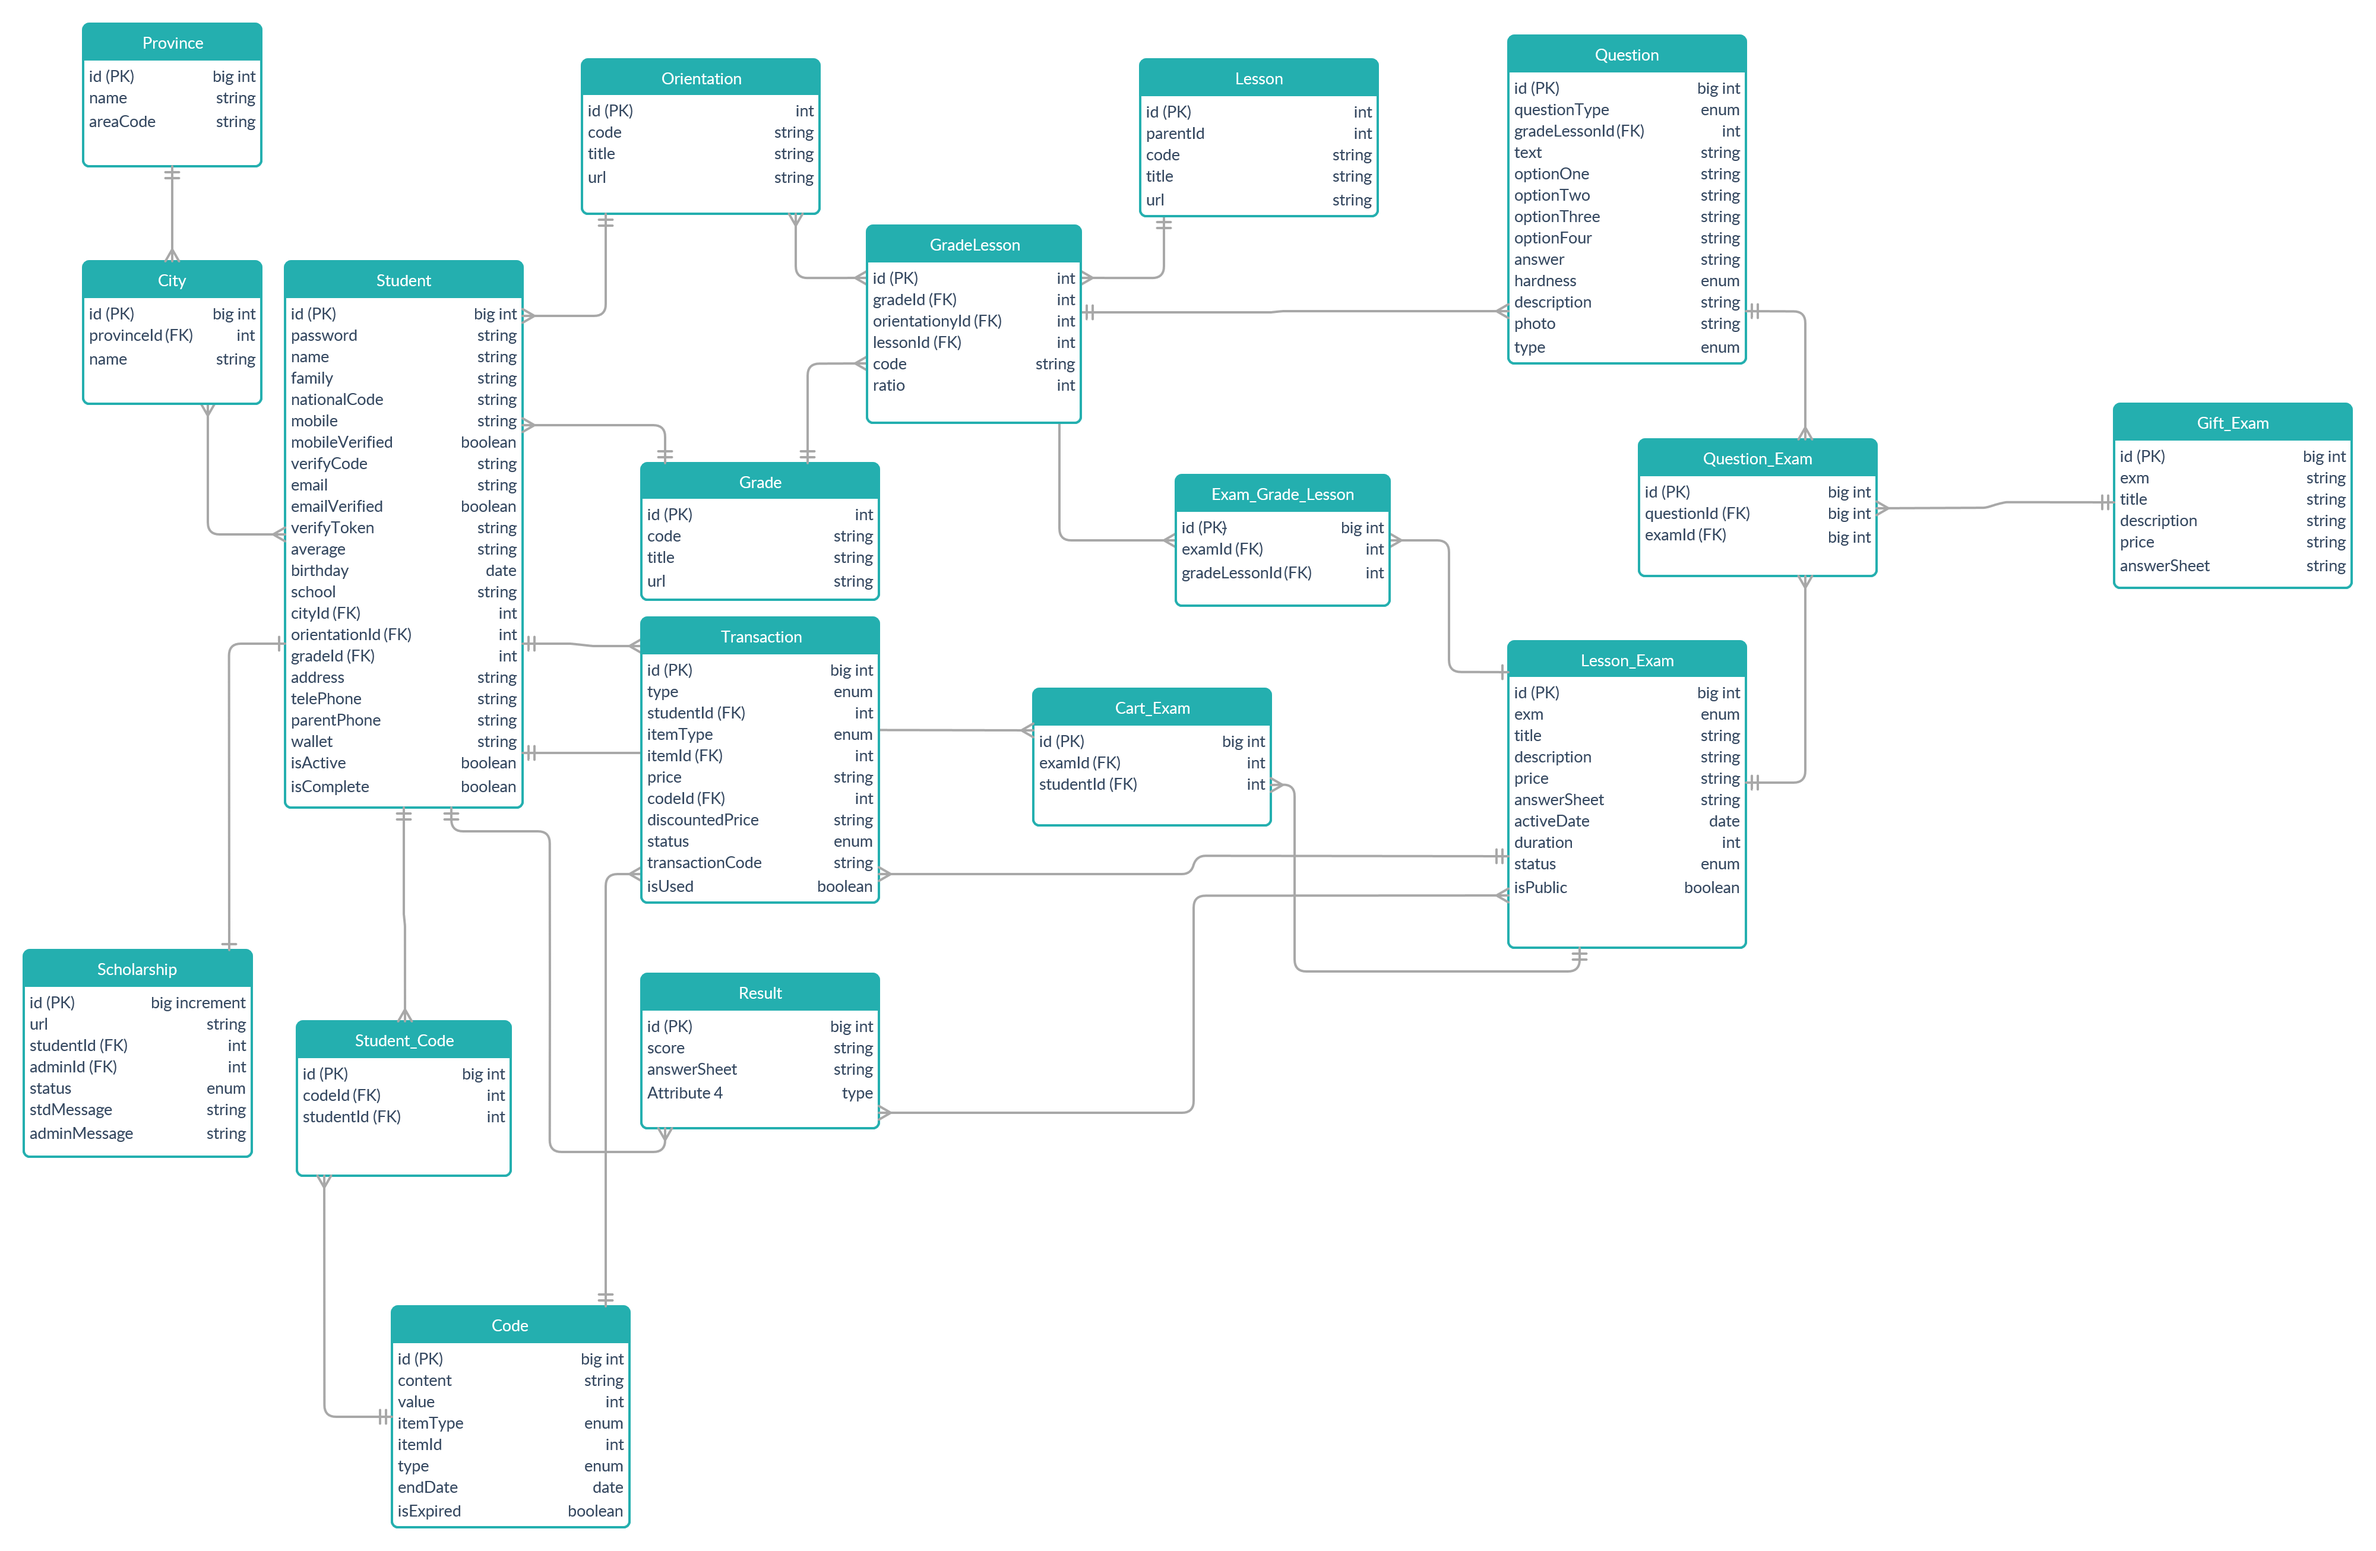
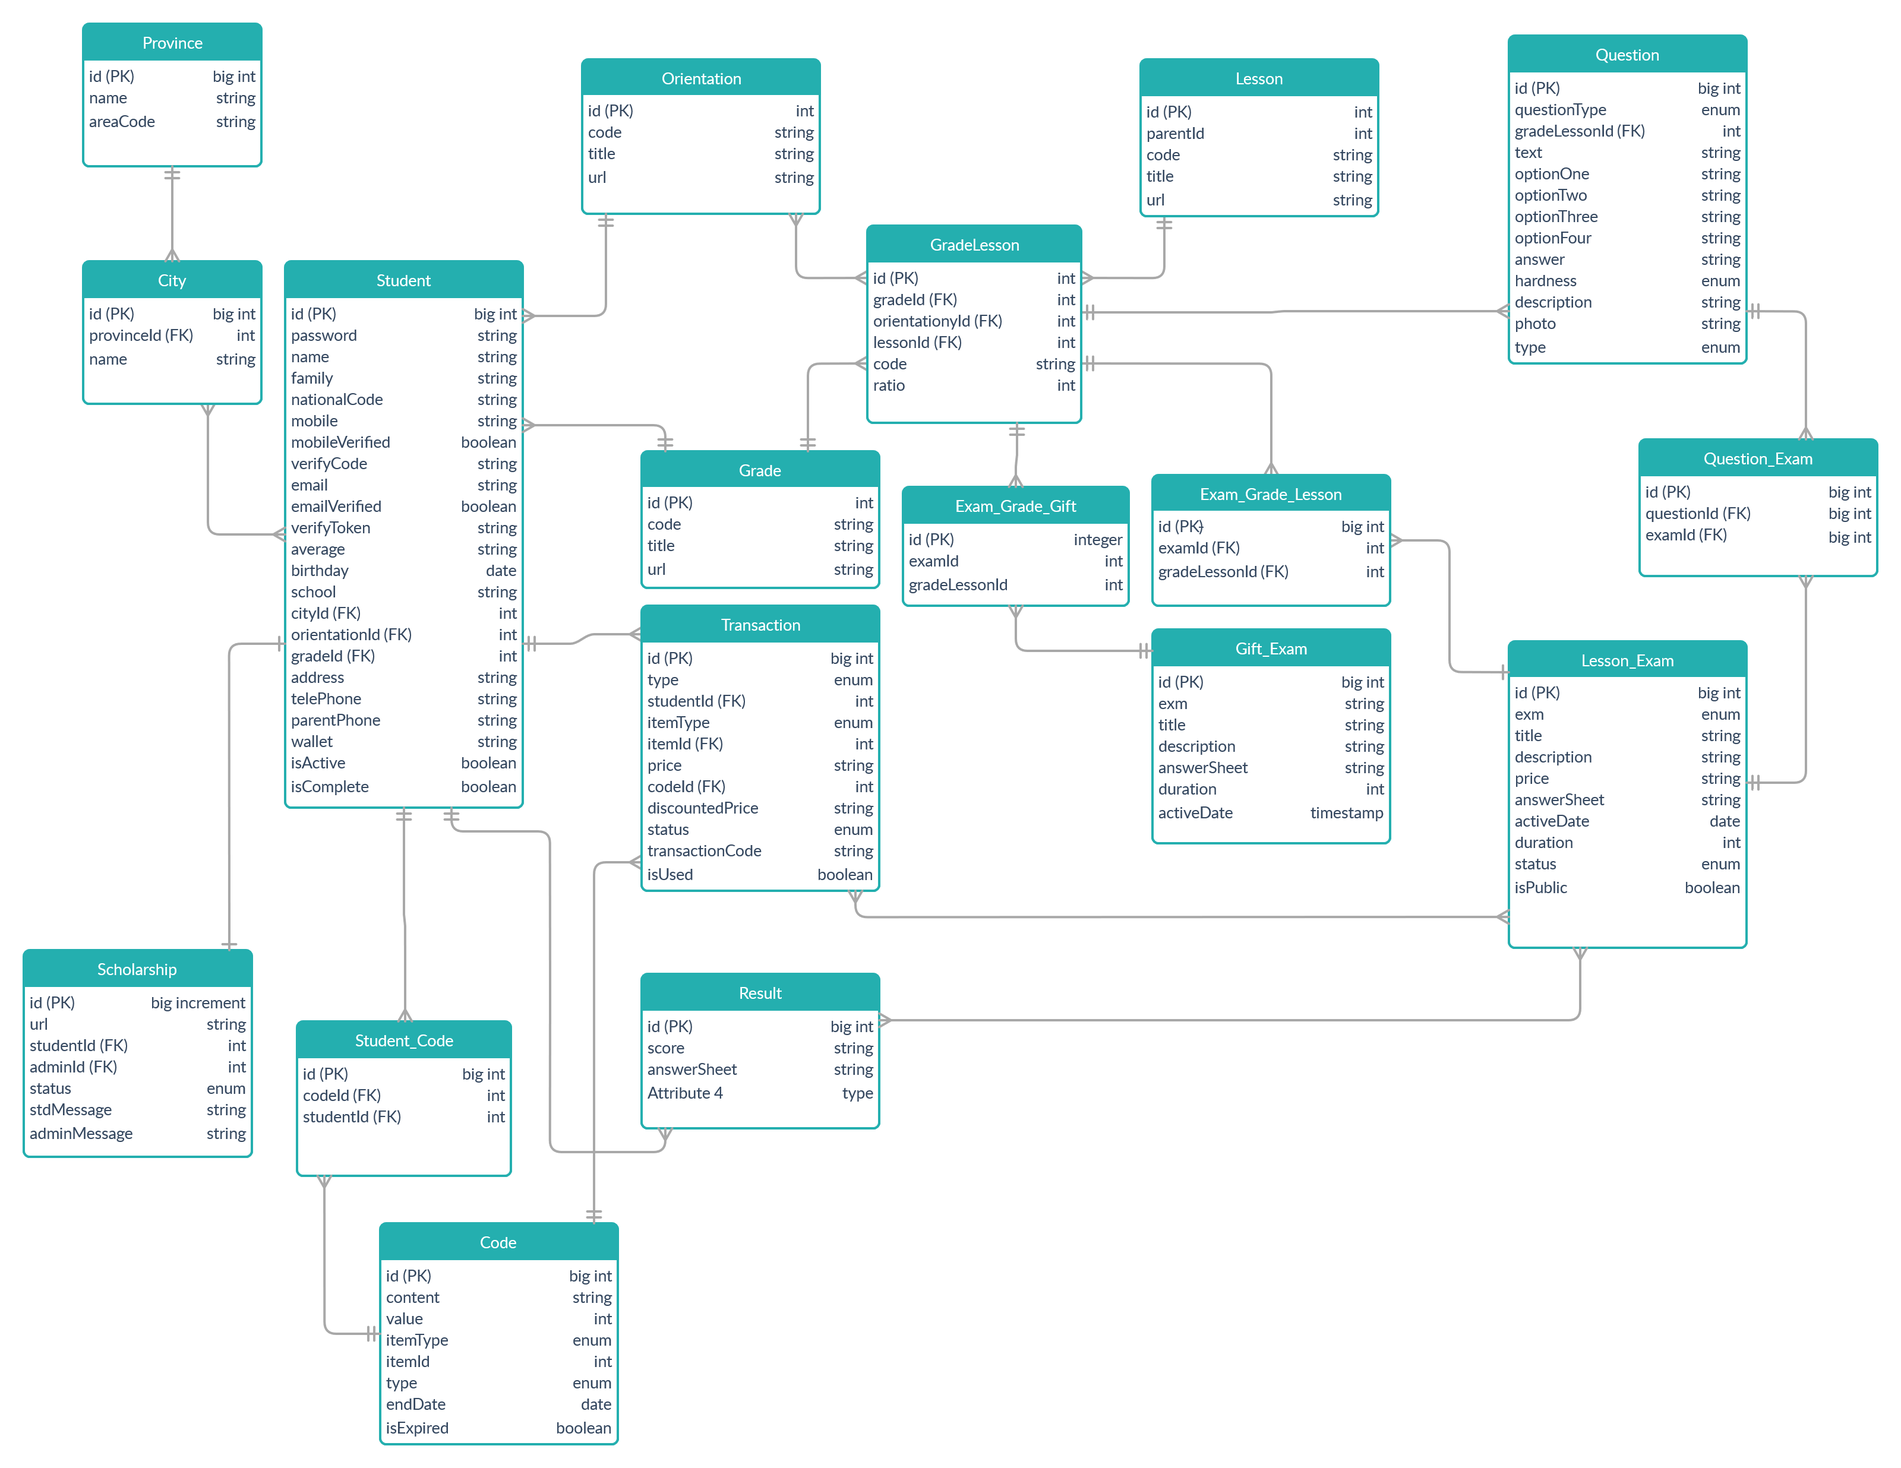
start giftExam

diff --git a/app/model/GiftExam.php b/app/model/GiftExam.php
@@ -1,0 +1,121 @@
+<?php
+
+    namespace App\model;
+
+    use App\Lib\Lib;
+    use Carbon\Carbon;
+    use Illuminate\Database\Eloquent\Model;
+    use Illuminate\Database\Eloquent\SoftDeletes;
+
+
+    /**
+     * @property \Carbon\Carbon $created_at
+     * @property \Carbon\Carbon $updated_at
+     * @property int            $id
+     * @property string         $exm
+     * @property string         $title
+     * @property string         $description
+     * @property string         $answerSheet
+     * @property int            $duration
+     * @property \Carbon\Carbon $activeTime
+     * @property \Carbon\Carbon $deleted_at
+     **/
+    class GiftExam extends Model
+    {
+
+        protected $table = 'gift_exam';
+
+        use SoftDeletes;
+
+
+
+        public function gradeLessons()
+        {
+
+            return $this->hasManyThrough(GradeLesson::class, ExamGradeGift::class, 'examId', 'id', 'id', 'gradeLessonId');
+        }
+
+
+        public function examGradeGifts()
+        {
+
+            return $this->hasMany(ExamGradeGift::class,'examId');
+        }
+
+
+        public function grades()
+        {
+
+            $gradeArray = array();
+
+            foreach ($this->gradeLessons as $gradeLesson)
+            {
+                array_push($gradeArray, $gradeLesson->grade);
+            }
+
+            $unique_gradeId = Lib::unique_ObjectArray($gradeArray, 'id');
+
+            $grades = array();
+
+            foreach ($unique_gradeId as $id)
+            {
+                $grade = Grade::query()->find($id);
+
+                array_push($grades, $grade);
+            }
+
+            return $grades;
+        }
+
+
+        public function orientation()
+        {
+
+            $orientationArray = array();
+
+            foreach ($this->gradeLessons as $gradeLesson)
+            {
+                array_push($orientationArray, $gradeLesson->orientation);
+            }
+
+            $unique_oriId = Lib::unique_ObjectArray($orientationArray, 'id');
+
+            $orientation = array();
+
+            foreach ($unique_oriId as $id)
+            {
+                $ori = Orientation::query()->find($id);
+
+                array_push($orientation, $ori);
+            }
+
+            return $orientation;
+
+        }
+
+
+        public function lessons()
+        {
+
+            $lessonArray = array();
+
+            foreach ($this->gradeLessons as $gradeLesson)
+            {
+                array_push($lessonArray, $gradeLesson->lesson);
+            }
+
+            $unique_lessonId = Lib::unique_ObjectArray($lessonArray, 'id');
+
+            $lessons = array();
+
+            foreach ($unique_lessonId as $id)
+            {
+                $lesson = Lesson::query()->find($id);
+
+                array_push($lessons, $lesson);
+            }
+
+            return $lessons;
+        }
+
+    }

diff --git a/database/migrations/2019_10_05_194430_create_gift_exam_table.php b/database/migrations/2019_10_05_194430_create_gift_exam_table.php
@@ -1,0 +1,46 @@
+<?php
+
+    use Illuminate\Support\Facades\Schema;
+    use Illuminate\Database\Schema\Blueprint;
+    use Illuminate\Database\Migrations\Migration;
+
+
+    class CreateGiftExamTable extends Migration
+    {
+
+        /**
+         * Run the migrations.
+         *
+         * @return void
+         */
+        public function up()
+        {
+
+            Schema::create('gift_exam', function(Blueprint $table)
+            {
+
+                $table->bigIncrements('id');
+                $table->string('exm')->nullable();
+                $table->string('title');
+                $table->string('description')->nullable();
+                $table->string('answerSheet')->nullable();
+                $table->integer('duration');
+                $table->timestamp('activeTime');
+                $table->timestamps();
+                $table->softDeletes();
+            });
+        }
+
+
+        /**
+         * Reverse the migrations.
+         *
+         * @return void
+         */
+        public function down()
+        {
+
+            Schema::dropIfExists('gift_exam');
+        }
+
+    }

diff --git a/database/migrations/2019_10_05_195344_create_exam_grade_gift_table.php b/database/migrations/2019_10_05_195344_create_exam_grade_gift_table.php
@@ -1,0 +1,42 @@
+<?php
+
+    use Illuminate\Support\Facades\Schema;
+    use Illuminate\Database\Schema\Blueprint;
+    use Illuminate\Database\Migrations\Migration;
+
+
+    class CreateExamGradeGiftTable extends Migration
+    {
+
+        /**
+         * Run the migrations.
+         *
+         * @return void
+         */
+        public function up()
+        {
+
+            Schema::create('exam_grade_gift', function(Blueprint $table)
+            {
+
+                $table->bigIncrements('id');
+                $table->integer('examId');
+                $table->integer('gradeLessonId');
+                $table->timestamps();
+                $table->softDeletes();
+            });
+        }
+
+
+        /**
+         * Reverse the migrations.
+         *
+         * @return void
+         */
+        public function down()
+        {
+
+            Schema::dropIfExists('exam_grade_gift');
+        }
+
+    }

diff --git a/app/model/ExamGradeGift.php b/app/model/ExamGradeGift.php
@@ -1,0 +1,27 @@
+<?php
+
+    namespace App\model;
+
+    use Illuminate\Database\Eloquent\Model;
+
+
+    class ExamGradeGift extends Model
+    {
+
+        protected $table = 'exam_grade_gift';
+
+
+        public function giftExam()
+        {
+
+            return $this->belongsTo(GiftExam::class, 'examId');
+        }
+
+
+        public function gradeLesson()
+        {
+
+            return $this->belongsTo(GradeLesson::class,'gradeLessonId');
+        }
+
+    }
